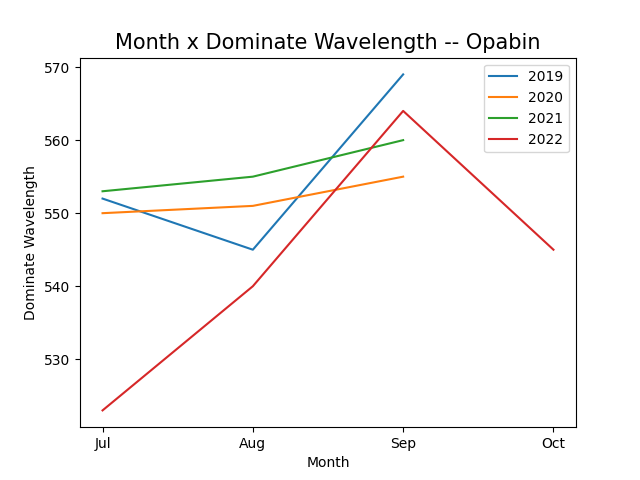
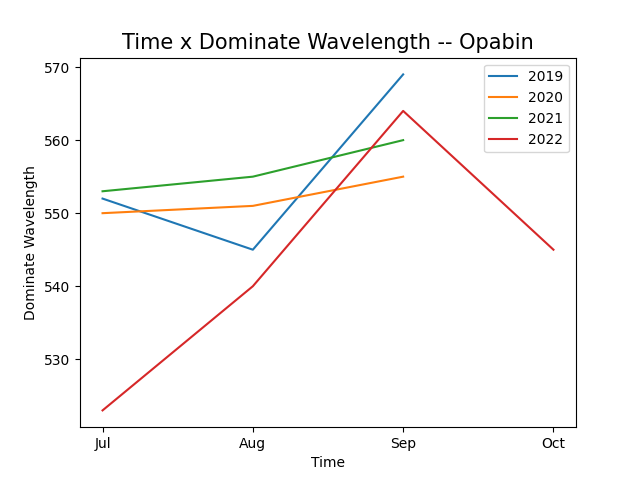
Added tub x dom wave graph

Changed region(s): [[0.1875, 0.0625, 0.6875, 0.125], [0.7188, 0.0625, 0.8438, 0.125], [0.4688, 0.9375, 0.5625, 1.0]]

diff --git a/plot.py b/plot.py
@@ -1,5 +1,6 @@
 import sys
 import matplotlib.pyplot as plt
+import numpy as np
 
 '''
 Returns dictionaires containing dominate wavelength and turbidity data for years 2019-2022
@@ -43,25 +44,60 @@ def getData(input):
     return DomWave, turbidity, months
 
 '''
-Generates graph of Month x Dominate Wavelength for a given lake.
+Generates graph of Tubidity x Dominate Wavelength for a given lake.
+* Use complete data
+'''
+def makeDWTurGraph(DomWave, turbidity, lake_name):
+    plt.title(label="Tubidity x Dominate Wavelength -- " + lake_name, fontsize=15, color='black')
+    all_dw = []
+    all_tur = []
+    for key in DomWave:
+        all_dw = all_dw + DomWave[key]
+        all_tur = all_tur + turbidity[key]
+    
+    #define data
+    x = np.array(all_dw)
+    y = np.array(all_tur)
+
+    ylog_data = np.log(y)
+    curve_fit = np.polyfit(x, ylog_data, 1)
+
+    # Convert the polynomial back into an exponential
+    a = np.exp(curve_fit[1])
+    b = curve_fit[0]
+    x_fitted = np.linspace(np.min(x), np.max(x), 100)
+    y_fitted = a * np.exp(b * x_fitted)
+    plt.plot(x_fitted, y_fitted, 'k', label='Fitted curve')
+
+    #add points to plot
+    plt.scatter(x, y)
+
+    plt.xlabel('Dominate Wavelength')
+    plt.ylabel('Tubidity')
+    plt.savefig("./figures/Evaluate_" + lake_name + "_DWTur.png")
+
+'''
+Generates graph of Time x Dominate Wavelength for a given lake.
+* Use averege data
 '''
 def makeDWTimeGraph(DomWave, months, lake_name):
-    plt.title(label="Month x Dominate Wavelength -- " + lake_name, fontsize=15, color='black')
+    plt.title(label="Time x Dominate Wavelength -- " + lake_name, fontsize=15, color='black')
     for key in DomWave:
         plt.plot(months, DomWave[key], label=key)
-        plt.xlabel('Month')
+        plt.xlabel('Time')
         plt.ylabel('Dominate Wavelength')
         plt.legend()
         plt.savefig("./figures/Evaluate_" + lake_name + "_DWTime.png")
 
 '''
-Generates graph of Month x Turbidity for a given lake.
+Generates graph of Time x Turbidity for a given lake.
+* Use averege data
 '''
 def makeTurTimeGraph(turbidity, months, lake_name):
-    plt.title(label="Month x Turbidity -- " + lake_name, fontsize=15, color='black')
+    plt.title(label="Time x Turbidity -- " + lake_name, fontsize=15, color='black')
     for key in turbidity:
         plt.plot(months, turbidity[key], label=key)
-        plt.xlabel('Month')
+        plt.xlabel('Time')
         plt.ylabel('Turbidity')
         plt.legend()
         plt.savefig("./figures/Evaluate_" + lake_name + "_TurTime.png")
@@ -76,6 +112,8 @@ def main():
         makeDWTimeGraph(DomWave, months, lake_name)
     elif graph_type == 't':
         makeTurTimeGraph(turbidity, months, lake_name)
+    elif graph_type == 'b':
+        makeDWTurGraph(DomWave, turbidity, lake_name)
     input.close()
 
 main()
